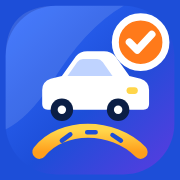
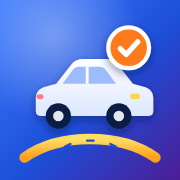
앱 아이콘 새 디자인
Claude-Session: https://claude.ai/code/session_01PXgAVqdLkAPLjyj7hx3dgi

diff --git a/index.html b/index.html
@@ -6,11 +6,12 @@
 <style>:root{color-scheme:light;padding-top:env(safe-area-inset-top,0px);padding-bottom:env(safe-area-inset-bottom,0px)}body{margin:0}img{max-width:100%}[hidden]{display:none!important}</style>
 </head>
 <body>
-<link rel="manifest" href="manifest.webmanifest">
+<link rel="manifest" href="manifest.webmanifest?v=2">
 <meta name="theme-color" content="#1D4ED8">
 <meta name="description" content="서나실의 마이플랜 다이렉트 - 자동차보험, 더 간편하게 더 합리적으로">
-<link rel="icon" href="icon-192.png">
-<link rel="apple-touch-icon" href="icon-180.png">
+<link rel="icon" type="image/png" sizes="48x48" href="icon-48.png?v=2">
+<link rel="icon" type="image/png" sizes="192x192" href="icon-192.png?v=2">
+<link rel="apple-touch-icon" sizes="180x180" href="icon-180.png?v=2">
 <meta name="apple-mobile-web-app-capable" content="yes">
 <meta name="mobile-web-app-capable" content="yes">
 <meta name="apple-mobile-web-app-title" content="마이플랜">
